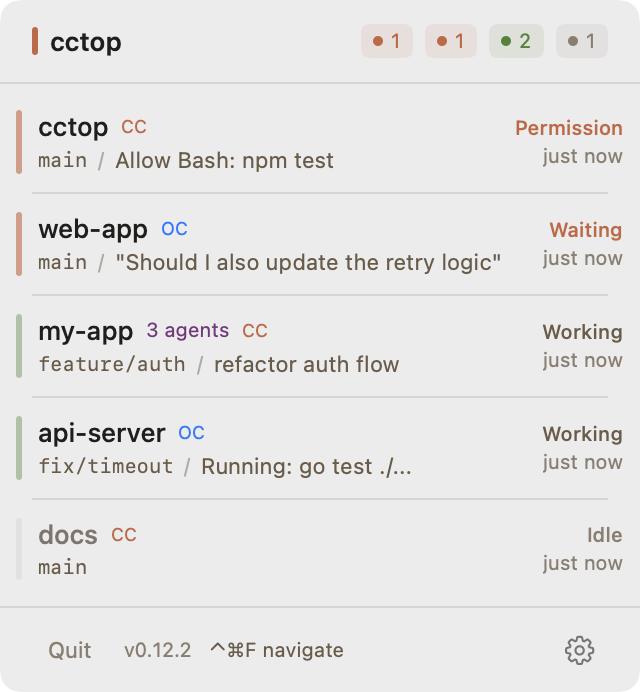
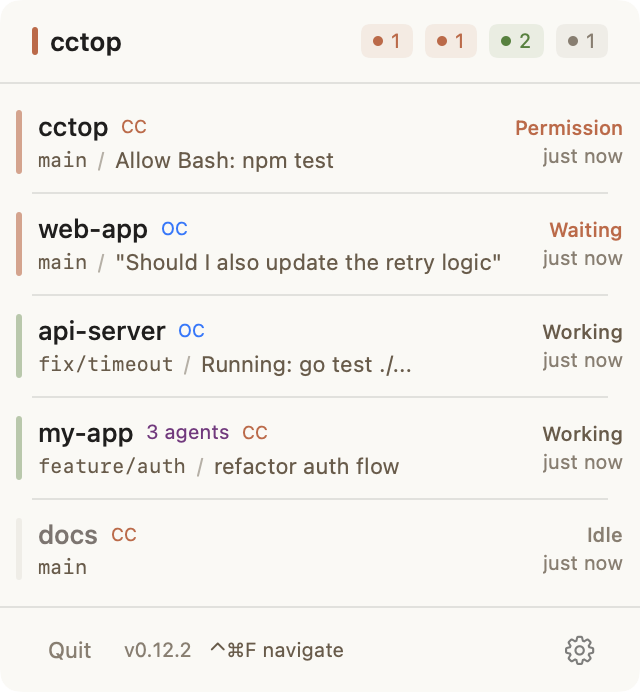
Fix screenshot background using system color instead of theme
renderScreenshot() used NSColor.windowBackgroundColor which ignores
the theme's panelBackground. Changed to Color.panelBackground so
screenshots accurately reflect each theme's background color.

diff --git a/menubar/CctopMenubarTests/SnapshotTests.swift b/menubar/CctopMenubarTests/SnapshotTests.swift
@@ -60,7 +60,7 @@ final class SnapshotTests: XCTestCase {
         let appearance: NSAppearance.Name = colorScheme == .dark ? .darkAqua : .aqua
         let styled = view
             .frame(width: width)
-            .background(Color(NSColor.windowBackgroundColor))
+            .background(Color.panelBackground)
             .clipShape(RoundedRectangle(cornerRadius: 10))
             .environment(\.colorScheme, colorScheme)
 
